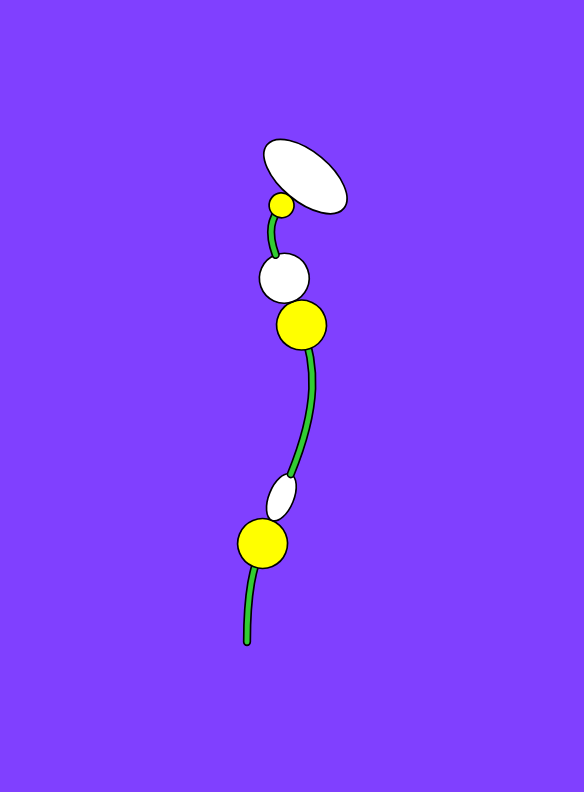
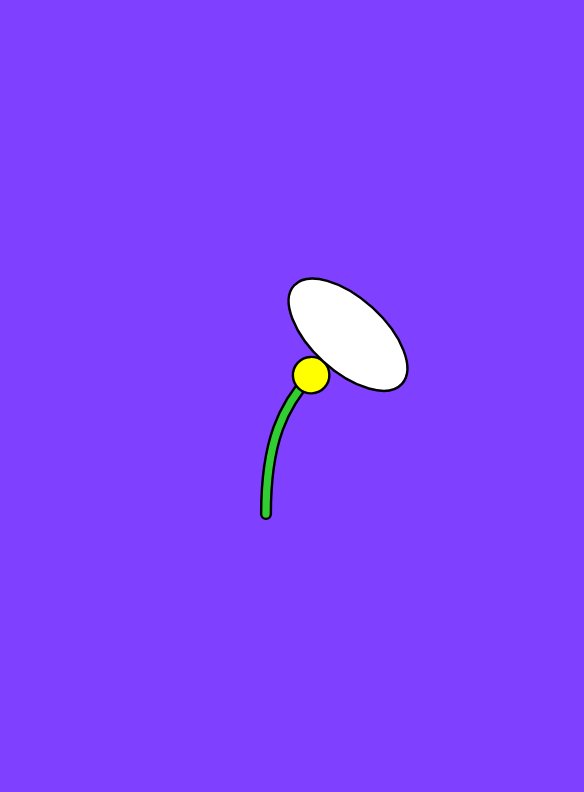
work

Changed region(s): [[0.4007, 0.1515, 0.7089, 0.8182]]

diff --git a/public/courses/flower_garden/1_garden_varieties/5_shapes_and_sizes/sketch.js b/public/courses/flower_garden/1_garden_varieties/5_shapes_and_sizes/sketch.js
@@ -1,29 +1,11 @@
 function my_garden() {
 
 	stem_length = 2
-	bud_size = 1
-	petal_width = 1 / 2
-	stem_bend = 1 / 10
-
-	my_flower()
-
-	stem_length = 3
-	bud_size = 1
-	petal_width = 1
-	stem_bend = - 2 / 10
-
-	my_flower()
-
-	stem_length = 1
 	bud_size = 1 / 2
 	petal_width = 2
-	stem_bend = 3 / 10
 
-	my_flower()
-}
+	stem_bend = 1 / 5
 
-
-function my_flower() {
 	stem()
 	bud()
 	petal()

diff --git a/public/courses/flower_garden/1_garden_varieties/6_interaction/sketch.js b/public/courses/flower_garden/1_garden_varieties/6_interaction/sketch.js
@@ -6,14 +6,14 @@ function my_garden() {
 	stem()
 
 	bud_offset = mouse_y
-	bud_size = mouse_y + 1 / 2
+
 	bud()
-	bud_size = 1 - mouse_y * 1 / 2
 	bud()
+
+	petal_turn = 1 / 2 - mouse_x
 
 	petal_size = mouse_y
 	petal_offset = mouse_y
-	petal_turn = 1 / 2 - mouse_x
 	petal()
 	petal()
 	petal()

diff --git a/public/courses/flower_garden/2_control_functions/3_fork/sketch.js b/public/courses/flower_garden/2_control_functions/3_fork/sketch.js
@@ -1,0 +1,11 @@
+function my_garden() {
+	stem_length = 2
+	stem()
+
+	petal_color = "green"
+
+	ring(petal)
+
+	stem()
+	bud()
+}

diff --git a/public/courses/flower_garden/1_garden_varieties/5_shapes_and_sizes/copy.md b/public/courses/flower_garden/1_garden_varieties/5_shapes_and_sizes/copy.md
@@ -1,13 +1,13 @@
 Flowers come in all shapes and sizes.
 ---
 Use length, size and width to change the elements. For example:
-- `stem_length = 1`
+- `stem_length = 2`
 - `bud_size = 1 / 2`
 - `petal_width = 2`
 ---
 Stem has a special property called `bend`
-Use it like so: `stem_bend = 1 / 10`
+Use it like so: `stem_bend = 1 / 5`
 ---
 Challenge!
 - Change around the length, width and size of the elements...
-- Try to make the stems curl all the way around! 🥀
+- Try to make the stem curl all the way around! 🥀

diff --git a/public/courses/flower_garden/2_control_functions/3_fork/copy.md b/public/courses/flower_garden/2_control_functions/3_fork/copy.md
@@ -1,0 +1,12 @@
+Rings are great for flowers, but what about leaves?
+---
+Use `fork(petal)` to make two leaves
+---
+fork also has a count property, as well as an angle property:
+- `fork_count = 4`
+- `fork_angle = 1 / 2`
+---
+Challenge!
+- Change `ring` to `fork`
+- Add `fork_angle` set it to `mouse_x` and see what happens! ✨
+- Add `fork_count` and try out different numbers...

diff --git a/public/courses/flower_garden/2_control_functions/2_ring/copy.md b/public/courses/flower_garden/2_control_functions/2_ring/copy.md
@@ -1,4 +1,4 @@
-Repeat is pretty cool, but what if I want to repeat in a ring?
+Repeat is pretty cool, but what if I want to repeat in a circle?
 ---
 Use `ring(petal)` to make a ring of petals!
 ---
